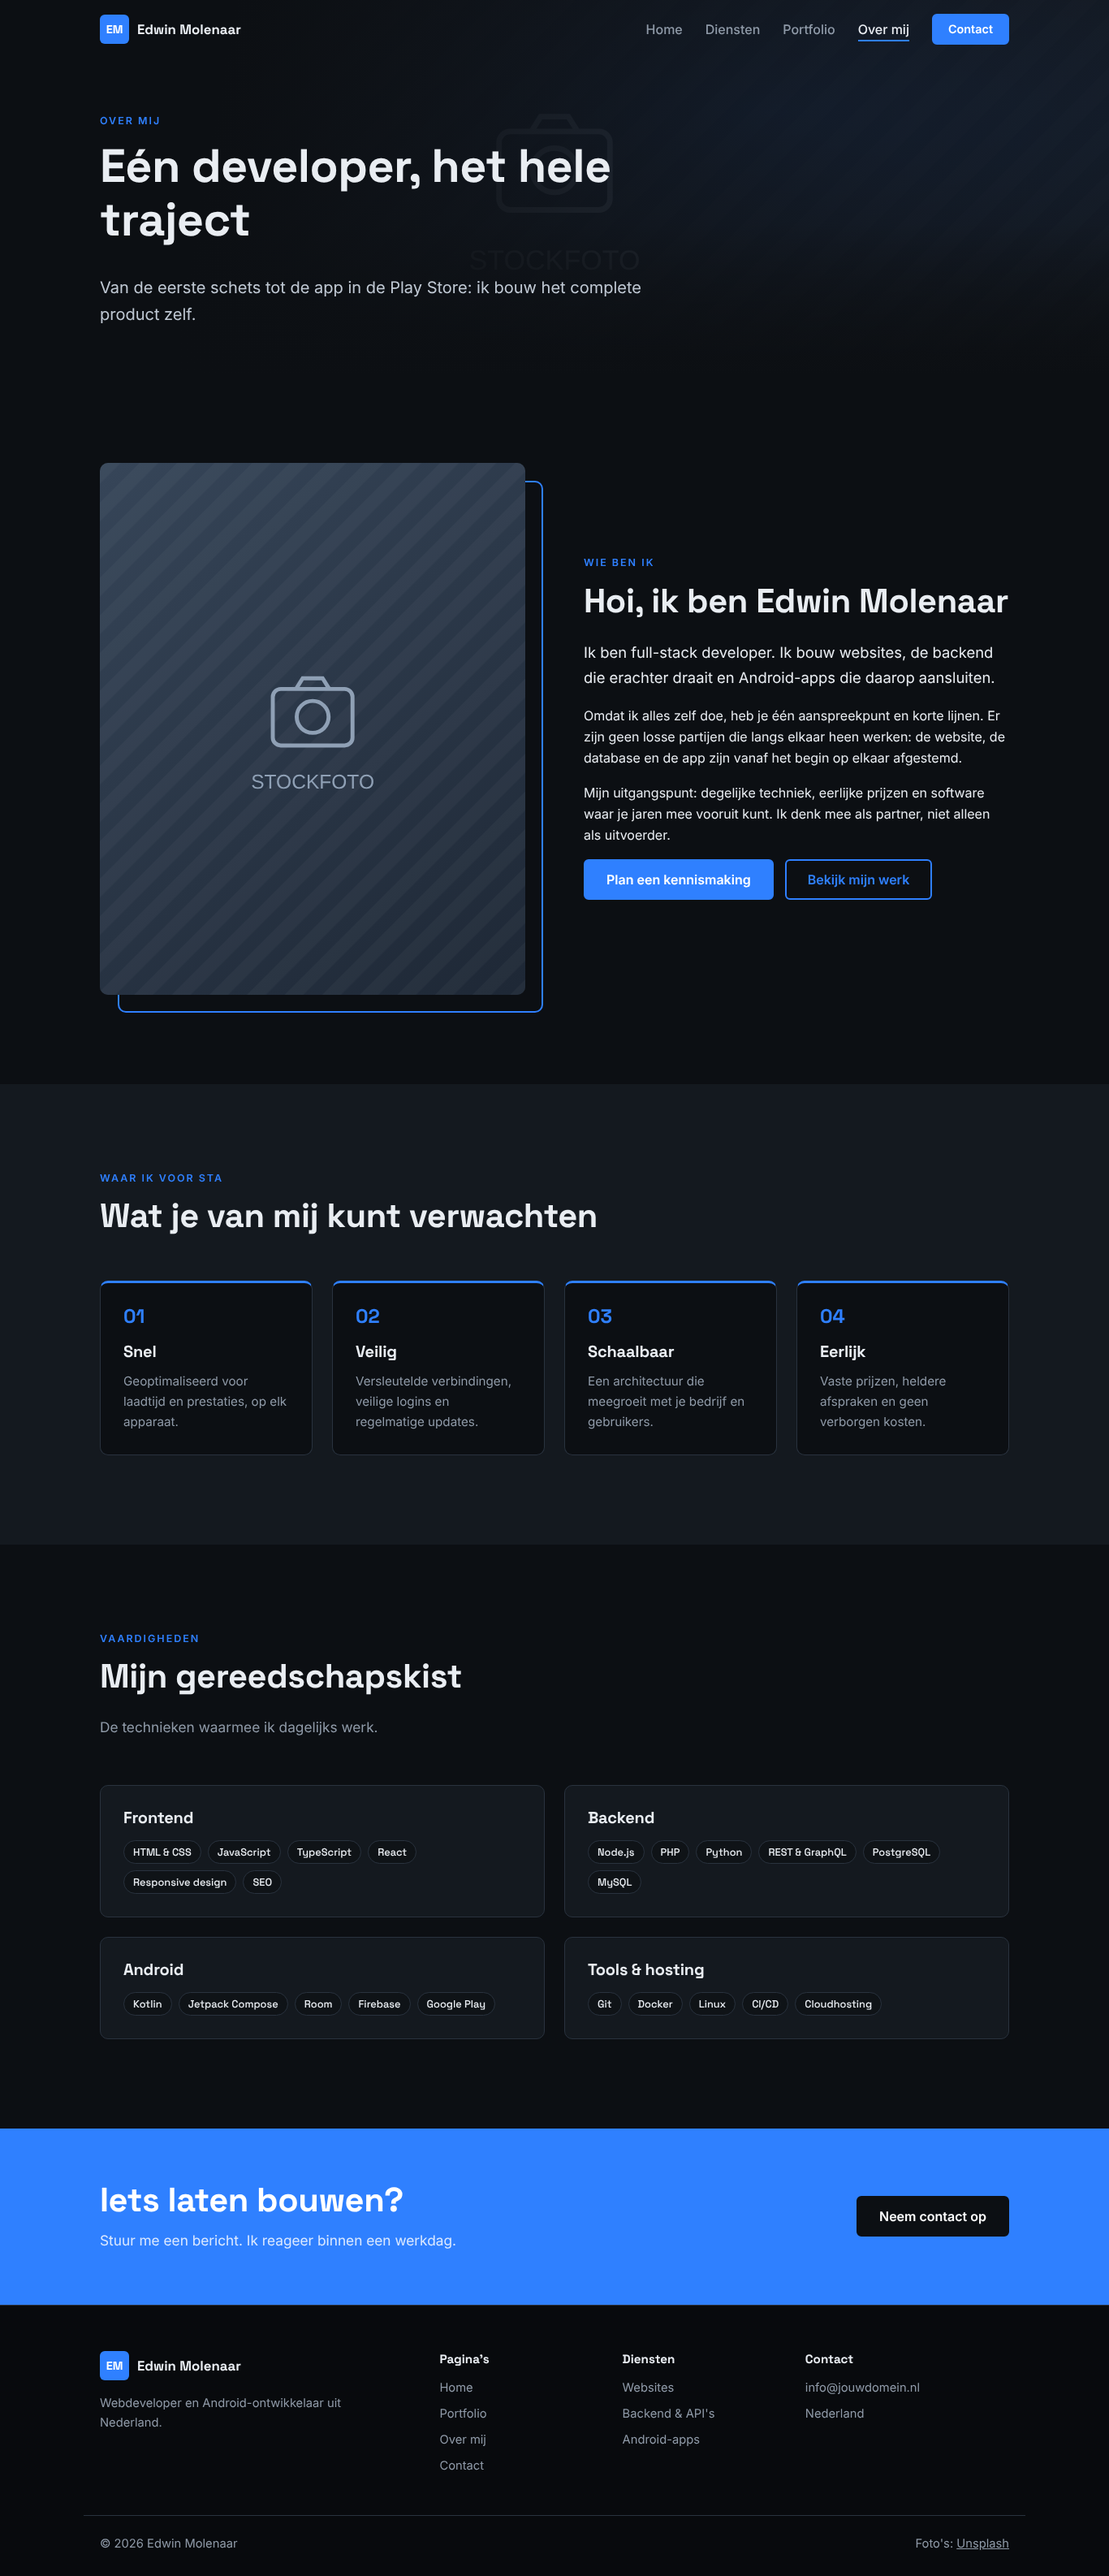
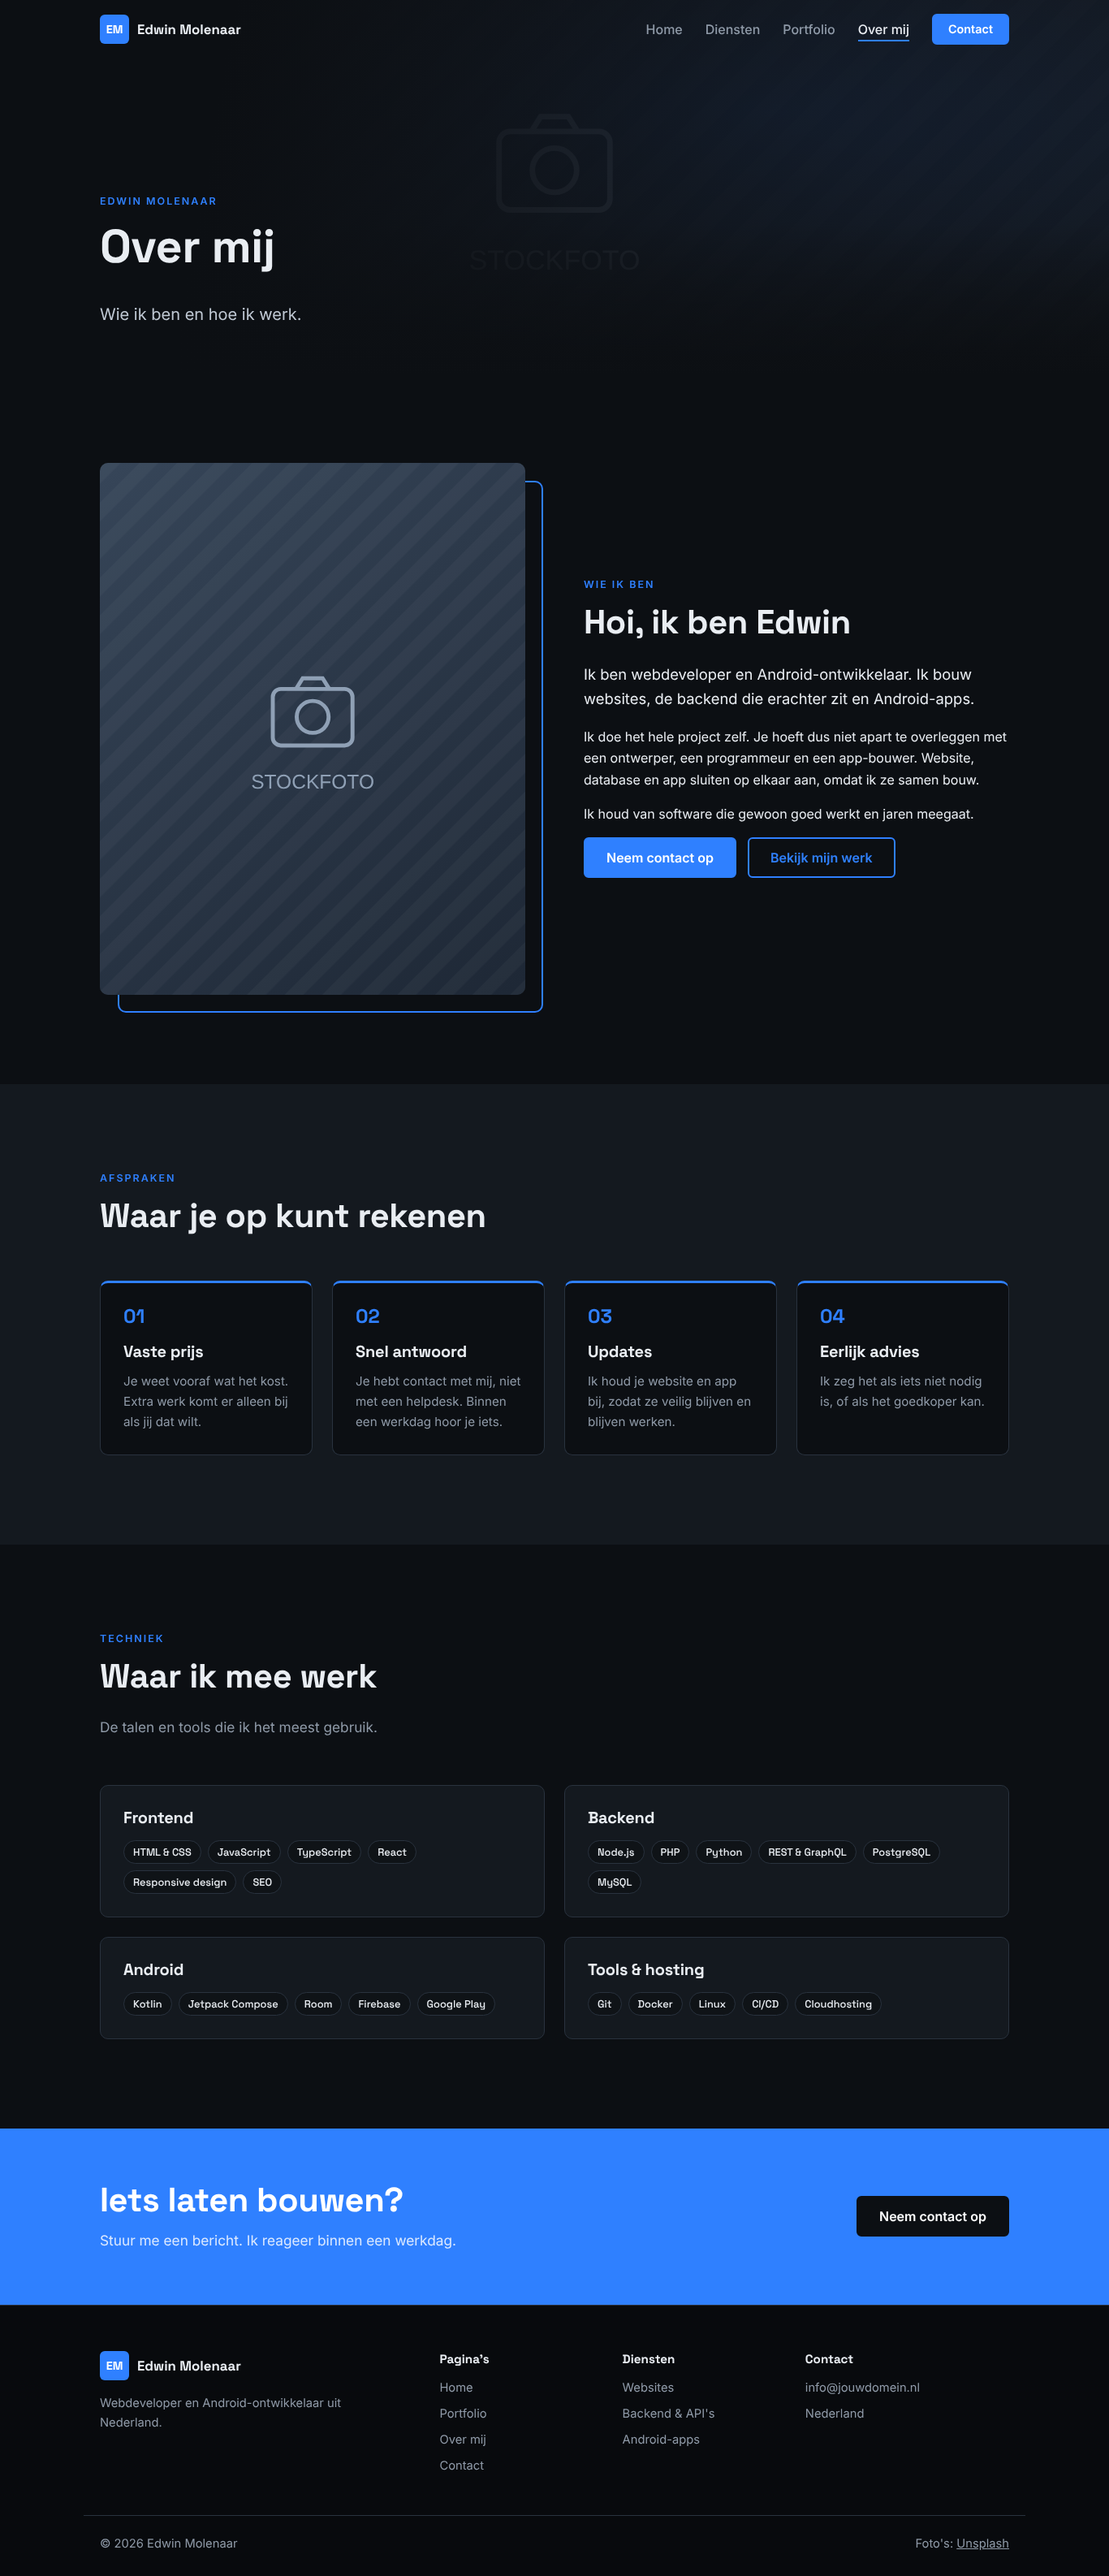
Rewrite About and Contact copy in a plainer, more personal tone
Claude-Session: https://claude.ai/code/session_01BR2aM2KyyCs7b3zr3d6H45

diff --git a/contact.html b/contact.html
@@ -33,16 +33,16 @@
       <img class="hero-bg" src="https://images.unsplash.com/photo-1497366216548-37526070297c?auto=format&fit=crop&w=1920&q=70" alt="" aria-hidden="true">
       <div class="container hero-content">
         <p class="eyebrow">Contact</p>
-        <h1>Laten we samen bouwen</h1>
-        <p class="lead">Vertel kort over je idee. Je krijgt binnen één werkdag een reactie en, als het klikt, een vrijblijvende offerte.</p>
+        <h1>Neem contact op</h1>
+        <p class="lead">Vertel kort wat je wilt laten maken. Ik reageer binnen een werkdag. Daarna kunnen we bellen of afspreken, en krijg je een offerte als je dat wilt.</p>
       </div>
     </section>
 
     <section class="section">
       <div class="container contact">
         <div>
-          <h2>Direct contact</h2>
-          <p class="muted">Liever direct mailen? Dat kan natuurlijk ook.</p>
+          <h2>Gegevens</h2>
+          <p class="muted">Vul het formulier in of mail me direct.</p>
           <ul class="contact-cards">
             <li>
               <svg viewBox="0 0 24 24"><rect x="3" y="5" width="18" height="14" rx="2"/><path d="m3 7 9 6 9-6"/></svg>
@@ -50,7 +50,7 @@
             </li>
             <li>
               <svg viewBox="0 0 24 24"><path d="M12 21s-7-6.2-7-11.5A7 7 0 0 1 19 9.5C19 14.8 12 21 12 21z"/><circle cx="12" cy="9.5" r="2.5"/></svg>
-              <div><strong>Locatie</strong><span>Nederland – op locatie of op afstand</span></div>
+              <div><strong>Locatie</strong><span>Nederland. Afspreken kan bij jou of online.</span></div>
             </li>
             <li>
               <svg viewBox="0 0 24 24"><circle cx="12" cy="12" r="9"/><path d="M12 7v5l3 2"/></svg>
@@ -59,7 +59,7 @@
           </ul>
         </div>
         <form class="form" id="contact-form">
-          <h3>Stuur een aanvraag</h3>
+          <h3>Stuur een bericht</h3>
           <div class="field-row">
             <label>Naam<input name="naam" required autocomplete="name"></label>
             <label>E-mail<input name="email" type="email" required autocomplete="email"></label>
@@ -83,8 +83,8 @@
               </select>
             </label>
           </div>
-          <label>Bericht<textarea name="bericht" rows="6" required placeholder="Vertel kort over je project, doelen en planning."></textarea></label>
-          <button class="btn" type="submit">Verstuur aanvraag</button>
+          <label>Bericht<textarea name="bericht" rows="6" required placeholder="Wat wil je laten maken, en wanneer moet het klaar zijn?"></textarea></label>
+          <button class="btn" type="submit">Versturen</button>
         </form>
       </div>
     </section>
@@ -92,14 +92,14 @@
     <section class="section section-dark">
       <div class="container">
         <div class="section-head">
-          <p class="eyebrow">Veelgestelde vragen</p>
-          <h2>Goed om te weten</h2>
+          <p class="eyebrow">Vragen</p>
+          <h2>Veelgestelde vragen</h2>
         </div>
         <div class="faq">
-          <details><summary>Wat kost een website of app?</summary><p>Dat hangt af van de omvang. Na een kennismaking krijg je een offerte met een vaste prijs, zodat je vooraf weet waar je aan toe bent.</p></details>
-          <details><summary>Hoe lang duurt een project?</summary><p>Een bedrijfswebsite staat meestal binnen enkele weken online. Grotere webapplicaties en Android-apps plannen we in fases, met tussentijdse opleveringen.</p></details>
-          <details><summary>Regel je ook hosting en onderhoud?</summary><p>Ja. Ik kan hosting, domeinnaam, updates en back-ups voor je verzorgen, zodat je er zelf geen omkijken naar hebt.</p></details>
-          <details><summary>Kan ik later zelf content aanpassen?</summary><p>Zeker. Waar nodig bouw ik een eenvoudig beheerpaneel, zodat je zelf teksten, foto's of producten kunt aanpassen.</p></details>
+          <details><summary>Wat kost een website of app?</summary><p>Dat hangt af van wat je nodig hebt. Na een eerste gesprek krijg je een offerte met een vaste prijs.</p></details>
+          <details><summary>Hoe lang duurt een project?</summary><p>Een gewone bedrijfswebsite staat meestal binnen een paar weken online. Een webapplicatie of app duurt langer. Die bouw ik in delen, zodat je tussendoor al iets kunt zien.</p></details>
+          <details><summary>Regel je ook hosting en onderhoud?</summary><p>Ja. Ik kan hosting, domeinnaam, updates en back-ups regelen. Dan hoef je daar zelf niets mee.</p></details>
+          <details><summary>Kan ik later zelf content aanpassen?</summary><p>Ja. Als je dat wilt, maak ik een eenvoudige beheeromgeving waarin je zelf teksten, foto's of producten aanpast.</p></details>
         </div>
       </div>
     </section>

diff --git a/over-mij.html b/over-mij.html
@@ -32,9 +32,9 @@
     <section class="page-hero">
       <img class="hero-bg" src="https://images.unsplash.com/photo-1504384308090-c894fdcc538d?auto=format&fit=crop&w=1920&q=70" alt="" aria-hidden="true">
       <div class="container hero-content">
-        <p class="eyebrow">Over mij</p>
-        <h1>Eén developer, het hele traject</h1>
-        <p class="lead">Van de eerste schets tot de app in de Play Store: ik bouw het complete product zelf.</p>
+        <p class="eyebrow">Edwin Molenaar</p>
+        <h1>Over mij</h1>
+        <p class="lead">Wie ik ben en hoe ik werk.</p>
       </div>
     </section>
 
@@ -44,13 +44,13 @@
           <img src="https://images.unsplash.com/photo-1519389950473-47ba0277781c?auto=format&fit=crop&w=1100&q=70" alt="Werkplek met laptops" loading="lazy">
         </div>
         <div>
-          <p class="eyebrow">Wie ben ik</p>
-          <h2>Hoi, ik ben Edwin Molenaar</h2>
-          <p class="body-lg">Ik ben full-stack developer. Ik bouw websites, de backend die erachter draait en Android-apps die daarop aansluiten.</p>
-          <p>Omdat ik alles zelf doe, heb je één aanspreekpunt en korte lijnen. Er zijn geen losse partijen die langs elkaar heen werken: de website, de database en de app zijn vanaf het begin op elkaar afgestemd.</p>
-          <p>Mijn uitgangspunt: degelijke techniek, eerlijke prijzen en software waar je jaren mee vooruit kunt. Ik denk mee als partner, niet alleen als uitvoerder.</p>
+          <p class="eyebrow">Wie ik ben</p>
+          <h2>Hoi, ik ben Edwin</h2>
+          <p class="body-lg">Ik ben webdeveloper en Android-ontwikkelaar. Ik bouw websites, de backend die erachter zit en Android-apps.</p>
+          <p>Ik doe het hele project zelf. Je hoeft dus niet apart te overleggen met een ontwerper, een programmeur en een app-bouwer. Website, database en app sluiten op elkaar aan, omdat ik ze samen bouw.</p>
+          <p>Ik houd van software die gewoon goed werkt en jaren meegaat.</p>
           <div class="hero-actions">
-            <a href="contact.html" class="btn">Plan een kennismaking</a>
+            <a href="contact.html" class="btn">Neem contact op</a>
             <a href="portfolio.html" class="btn btn-outline">Bekijk mijn werk</a>
           </div>
         </div>
@@ -60,14 +60,14 @@
     <section class="section section-dark">
       <div class="container">
         <div class="section-head">
-          <p class="eyebrow">Waar ik voor sta</p>
-          <h2>Wat je van mij kunt verwachten</h2>
+          <p class="eyebrow">Afspraken</p>
+          <h2>Waar je op kunt rekenen</h2>
         </div>
         <div class="values">
-          <div class="value"><span class="num">01</span><h3>Snel</h3><p>Geoptimaliseerd voor laadtijd en prestaties, op elk apparaat.</p></div>
-          <div class="value"><span class="num">02</span><h3>Veilig</h3><p>Versleutelde verbindingen, veilige logins en regelmatige updates.</p></div>
-          <div class="value"><span class="num">03</span><h3>Schaalbaar</h3><p>Een architectuur die meegroeit met je bedrijf en gebruikers.</p></div>
-          <div class="value"><span class="num">04</span><h3>Eerlijk</h3><p>Vaste prijzen, heldere afspraken en geen verborgen kosten.</p></div>
+          <div class="value"><span class="num">01</span><h3>Vaste prijs</h3><p>Je weet vooraf wat het kost. Extra werk komt er alleen bij als jij dat wilt.</p></div>
+          <div class="value"><span class="num">02</span><h3>Snel antwoord</h3><p>Je hebt contact met mij, niet met een helpdesk. Binnen een werkdag hoor je iets.</p></div>
+          <div class="value"><span class="num">03</span><h3>Updates</h3><p>Ik houd je website en app bij, zodat ze veilig blijven en blijven werken.</p></div>
+          <div class="value"><span class="num">04</span><h3>Eerlijk advies</h3><p>Ik zeg het als iets niet nodig is, of als het goedkoper kan.</p></div>
         </div>
       </div>
     </section>
@@ -75,9 +75,9 @@
     <section class="section">
       <div class="container">
         <div class="section-head">
-          <p class="eyebrow">Vaardigheden</p>
-          <h2>Mijn gereedschapskist</h2>
-          <p>De technieken waarmee ik dagelijks werk.</p>
+          <p class="eyebrow">Techniek</p>
+          <h2>Waar ik mee werk</h2>
+          <p>De talen en tools die ik het meest gebruik.</p>
         </div>
         <div class="skills">
           <div class="skill-group">
